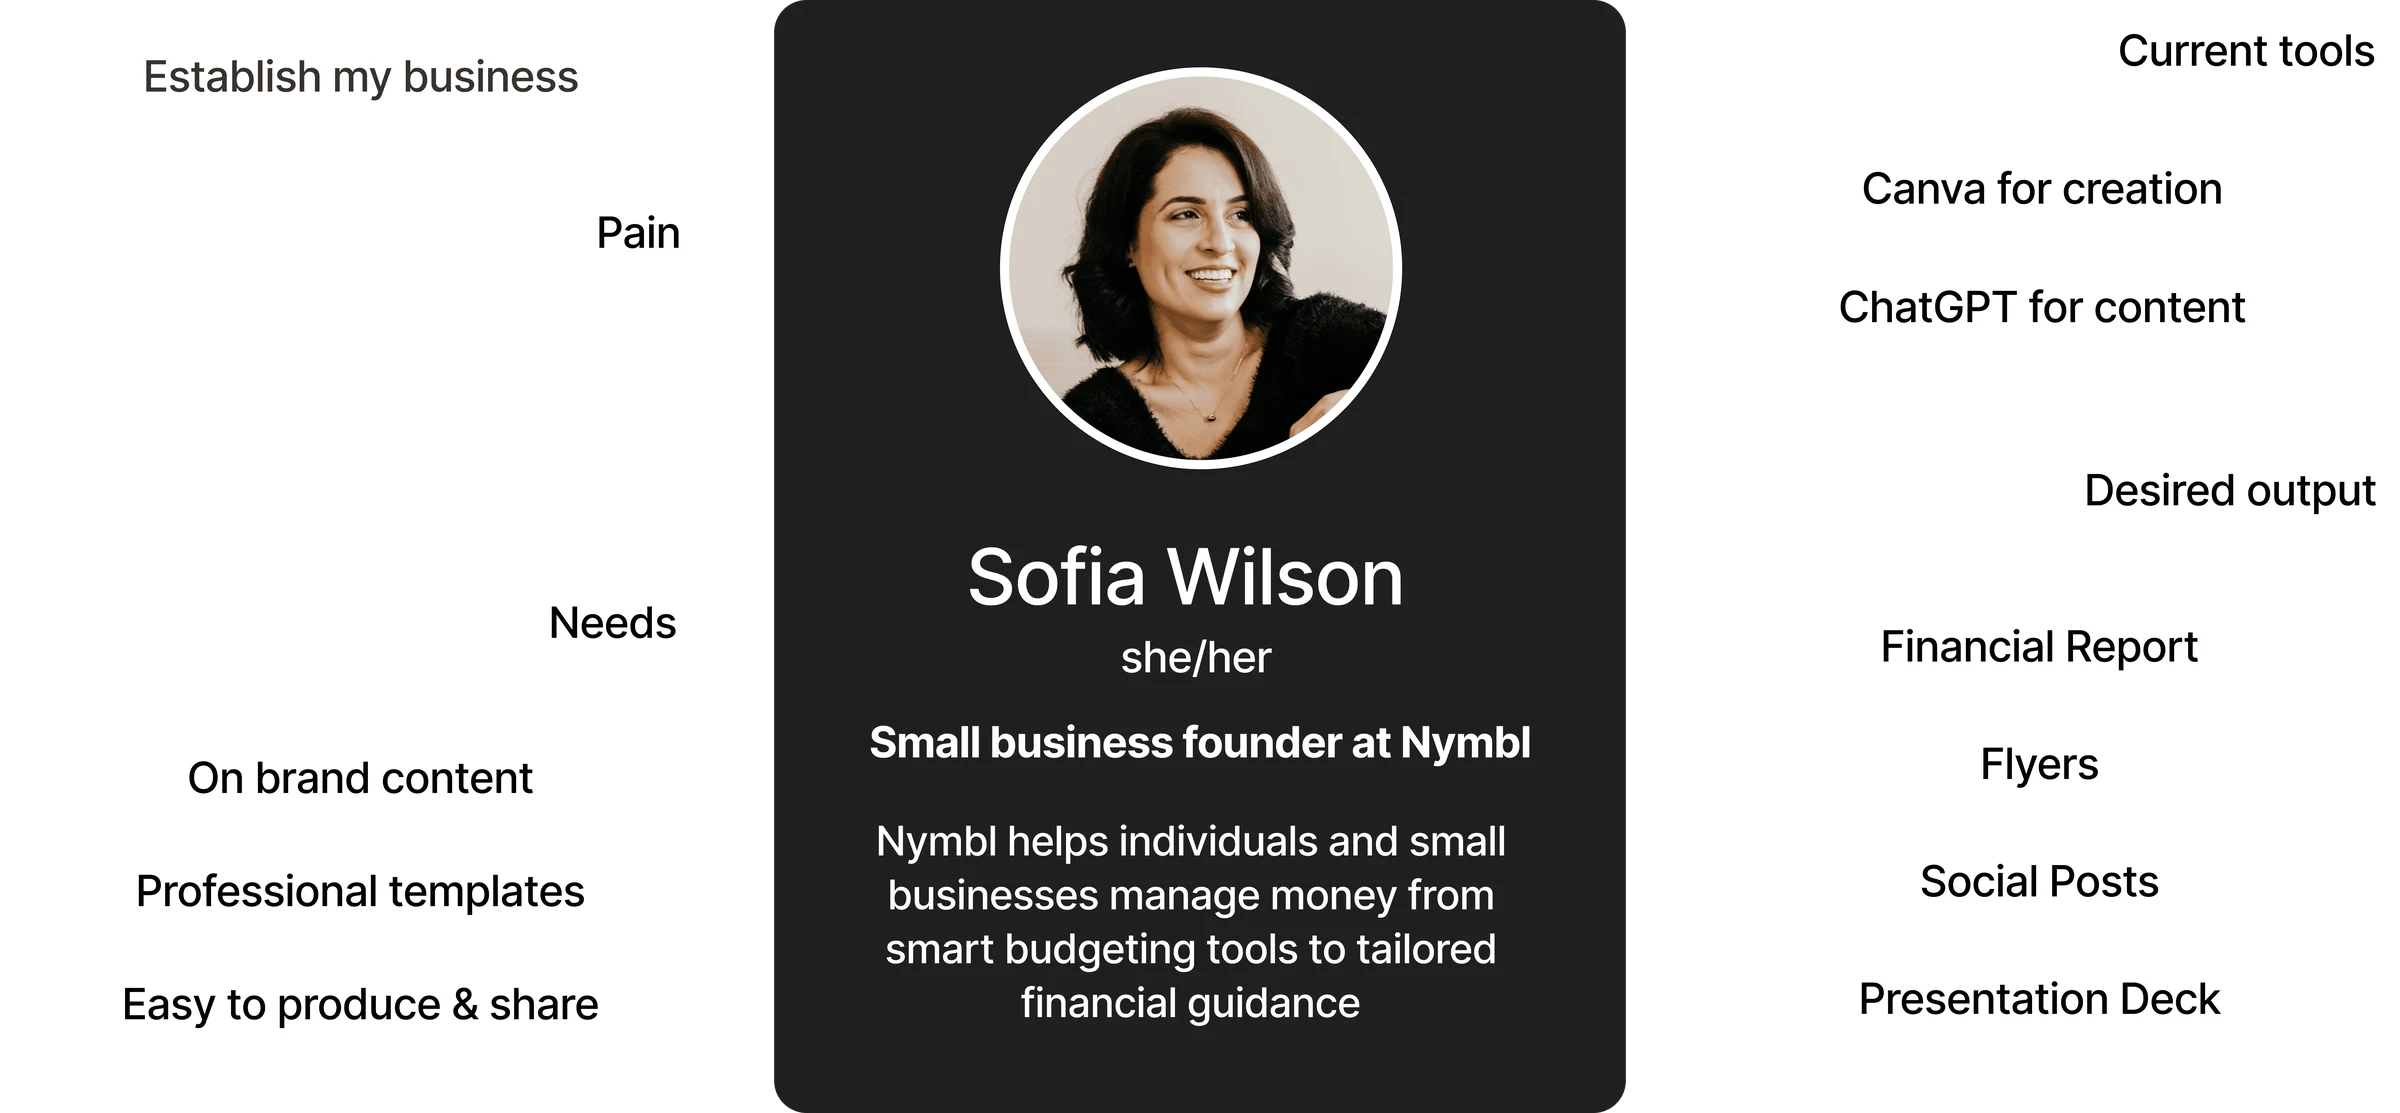
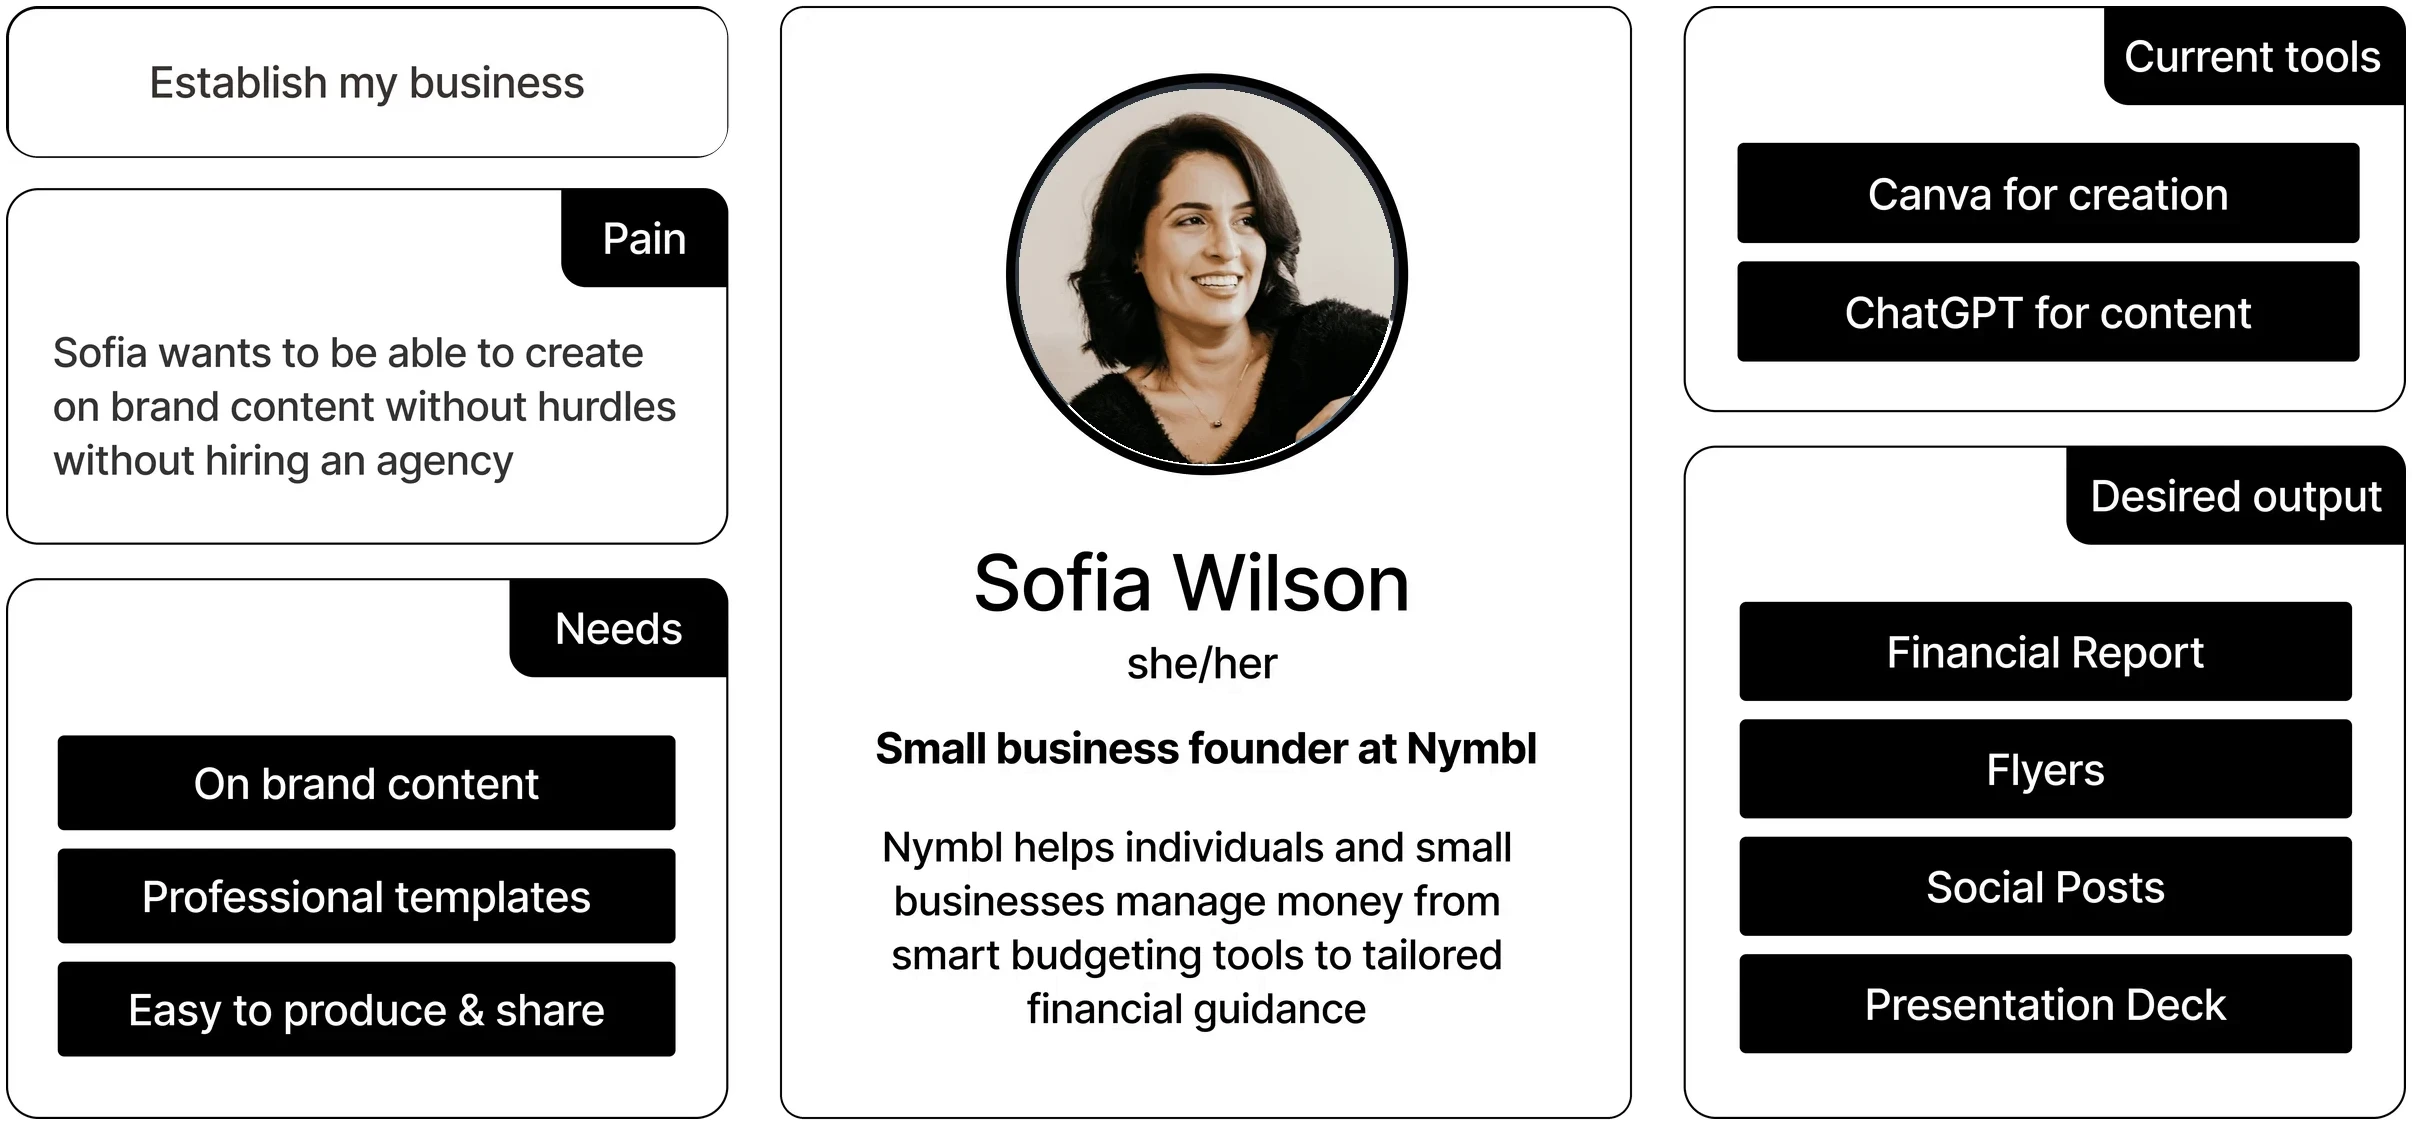
Refine Smart Layouts case study and inset media containers

diff --git a/smart-layouts.html b/smart-layouts.html
@@ -10,7 +10,7 @@
   <link rel="preconnect" href="https://fonts.gstatic.com" crossorigin>
   <link href="https://fonts.googleapis.com/css2?family=Cedarville+Cursive&family=Instrument+Sans:wdth,wght@75..100,400..700&family=Instrument+Serif:ital@0;1&display=swap" rel="stylesheet">
   <link rel="stylesheet" href="case.css?v=47">
-  <link rel="stylesheet" href="study.css?v=9">
+  <link rel="stylesheet" href="study.css?v=15">
 </head>
 <body class="case study">
   <a class="skip" href="#overview">Skip to content</a>
@@ -37,8 +37,8 @@
 
     <section class="sec overview" id="overview">
       <div data-reveal>
-        <h3 class="h4">The use case</h3>
-        <p>Based on our findings, we focused on business professional Acrobat users, honing in on small business owners.</p>
+        <h3 class="h4">Overview</h3>
+        <p>Most people open Acrobat to read and review, not to create. Smart Layouts brings Adobe Express’s proven layouts into Acrobat so small business owners can turn their existing content into on-brand, production-ready designs without starting from a blank page.</p>
       </div>
       <div data-reveal>
         <h3 class="h4">My role</h3>
@@ -49,7 +49,7 @@
       <div data-reveal>
         <div class="person person--teal"><span class="av"><img src="assets/p1/av-011d2.png" alt=""><img src="assets/p1/av-b8d90.png" alt="Amal Shaheedi"></span><span><b>Amal Shaheedi</b><small>Product Design</small></span></div>
         <div class="person person--blue"><span class="av"><img src="assets/p1/av-011d2.png" alt=""><img src="assets/p1/av-57964.png" alt="James Ihezue"></span><span><b>James Ihezue</b><small>Content Strategist</small></span></div>
-        <div class="person person--teal person--solo"><span class="av av--ini" aria-hidden="true">AS</span><span><b>Alex Slater</b></span></div>
+        <div class="person person--teal"><span class="av av--ini" aria-hidden="true">AS</span><span><b>Alex Slater</b><small>Design Director</small></span></div>
       </div>
     </section>
 
@@ -58,15 +58,16 @@
         <p class="script">The use case</p>
         <h2 class="h3">Meet the small business owner</h2>
       </header>
-      <figure class="frame frame--dark frame--pad" data-reveal><img src="assets/p3/persona.webp" alt="Persona: Sofia Wilson, small business founder at Nymbl. Pain: wants on-brand content without hurdles or an agency. Needs: on-brand content, professional templates, easy to produce and share. Current tools: Canva and ChatGPT. Desired output: financial reports, flyers, social posts, presentation decks" width="2400" height="1113" loading="lazy"></figure>
+      <p class="body" data-reveal style="max-width:none">Based on our findings, we focused on business professional Acrobat users, honing in on small business owners.</p>
+      <figure class="frame frame--pad" data-reveal><img src="assets/p3/persona.webp?v=4" alt="Persona: Sofia Wilson, small business founder at Nymbl. Pain: wants on-brand content without hurdles or an agency. Needs: on-brand content, professional templates, easy to produce and share. Current tools: Canva and ChatGPT. Desired output: financial reports, flyers, social posts, presentation decks" width="2412" height="1125" loading="lazy"></figure>
     </section>
 
     <section class="sec stack" id="opportunity">
       <header class="shead" data-reveal>
         <p class="script">Opportunity</p>
-        <h2 class="h3">Turning passive Acrobat users into active creators</h2>
+        <h2 class="h3">Turning passive users into active creators</h2>
       </header>
-      <img class="venn" src="assets/p3/venn.svg" alt="Venn diagram: Consumption overlapping with Creation" width="864" height="411" data-reveal>
+      <img class="venn" src="assets/p3/venn.svg" alt="Venn diagram: Consumption overlapping with Creation" width="864" height="411" data-reveal style="width:min(580px,100%)">
     </section>
 
     <section class="sec stack" id="problem">
@@ -79,14 +80,14 @@
         <article><span class="num">2</span><h4>No clear starting point</h4><p>Not knowing what fits their task means wasted effort and second-guessing</p></article>
         <article><span class="num">3</span><h4>Lack of brand relevance</h4><p>Free-form generation drifts off-brand, and generic templates carry none of the user’s brand</p></article>
       </div>
-      <div class="statement" data-reveal>
+      <div class="statement statement--bare" data-reveal>
         <h3 class="h4">Problem statement</h3>
         <p>How might we create content that is easy to produce and highly relevant to our users?</p>
       </div>
     </section>
 
     <section class="sec" id="solution">
-      <div class="split">
+      <div class="split split--top">
         <div class="stack" data-reveal>
           <header class="shead">
             <p class="script">Solution</p>
@@ -100,10 +101,10 @@
 
     <section class="sec stack">
       <header class="shead" data-reveal>
-        <p class="script">What’s already working</p>
+        <p class="script" style="margin-bottom:10px">What’s already working</p>
         <h2 class="h3 h3--sm">In Express, wireframe templates export at nearly double the rate of the originals</h2>
       </header>
-      <p class="body" data-reveal>Across Express research, business communicators consistently want skeletal, professional layouts they can adapt, not bright, finished designs that are off-brand.</p>
+      <p class="body" data-reveal style="max-width:none">Across Express research, business communicators consistently want skeletal, professional layouts they can adapt, not bright, finished designs that are off-brand.</p>
       <div class="cards" style="--n:2" data-reveal>
         <article><h4>Skeletal &amp; simple</h4><p>They expect skeletal layouts, and describe the ones they’d actually use for work as simple, clean, easy and adaptable</p></article>
         <article><h4>Clear sections to adapt</h4><p>Distinct boxes and defined sections signal how a layout can be reused across different scenarios and use cases</p></article>
@@ -115,7 +116,7 @@
         <p class="script">Research</p>
         <h2 class="h3">Mapping out the journey</h2>
       </header>
-      <p class="body" data-reveal>We mapped out several possible user journeys and identified which ones made the most sense to move forward with.</p>
+      <p class="body" data-reveal style="max-width:none">We mapped out several possible user journeys and identified which ones made the most sense to move forward with.</p>
       <figure class="frame frame--grey" data-reveal><img src="assets/p3/journeys.png" alt="Four candidate user journeys, A, A.2, A.3 and B, mapped as flows of screens" width="1644" height="996" loading="lazy"></figure>
     </section>
 
@@ -125,10 +126,10 @@
         <h2 class="h3">Smart Layouts in Acrobat</h2>
       </header>
       <div data-reveal>
-        <p class="body">A clickable prototype that brings the efficiency of Smart Layouts to life for small business users. It shows how teams can move from an existing file or a wireframe (layout) state to on-brand, production-ready content.</p>
+        <p class="body" style="max-width:none">A clickable prototype that brings the efficiency of Smart Layouts to life for small business users. It shows how teams can move from an existing file or a wireframe (layout) state to on-brand, production-ready content.</p>
         <p class="note" style="margin-top:10px">Designed in Figma, engineered in Cursor/Claude</p>
       </div>
-      <figure class="frame frame--dark" data-reveal><video src="assets/p3/prototype.mp4" width="1440" height="918" autoplay muted loop playsinline preload="metadata" aria-label="Prototype walkthrough: picking a Smart Layout in Acrobat and turning it into on-brand content"></video></figure>
+      <figure class="frame frame--inset" data-reveal><video src="assets/p3/prototype.mp4" width="1440" height="918" autoplay muted loop playsinline preload="metadata" aria-label="Prototype walkthrough: picking a Smart Layout in Acrobat and turning it into on-brand content"></video></figure>
     </section>
   </div>
 

diff --git a/study.css b/study.css
@@ -114,8 +114,9 @@
   .pn { flex-direction: column; }
   .pn a { min-width: 0; }
 }
-.frame--inset { padding: clamp(18px, 3vw, 44px); }
-.frame--inset video, .frame--inset img { width: min(100%, 780px); margin: 0 auto; border-radius: 9px; box-shadow: 0 0 0 1px rgba(0,0,0,.06); }
+.frame--inset { padding: clamp(14px, 2vw, 28px); container-type: inline-size; }
+.frame--inset video, .frame--inset img { width: min(100%, 960px); margin: max(0px, (100cqi - 960px) / 2) auto; border-radius: 9px; box-shadow: 0 0 0 1px rgba(0,0,0,.06); }
 .stack--loose { gap: clamp(48px, 5.5vw, 80px); }
 .stack--loose > .shead { margin-bottom: calc(32px - clamp(48px, 5.5vw, 80px)); }
 .stack--loose .annot .notes li + li { margin-top: 10px; }
+.statement--bare, .study .statement--bare { padding: 0; background: none; border-radius: 0; margin-top: 16px; }

diff --git a/pvh.html b/pvh.html
@@ -10,7 +10,7 @@
   <link rel="preconnect" href="https://fonts.gstatic.com" crossorigin>
   <link href="https://fonts.googleapis.com/css2?family=Cedarville+Cursive&family=Instrument+Sans:wdth,wght@75..100,400..700&family=Instrument+Serif:ital@0;1&display=swap" rel="stylesheet">
   <link rel="stylesheet" href="case.css?v=47">
-  <link rel="stylesheet" href="study.css?v=9">
+  <link rel="stylesheet" href="study.css?v=15">
 </head>
 <body class="case study">
   <a class="skip" href="#overview">Skip to content</a>

diff --git a/salesforce.html b/salesforce.html
@@ -9,7 +9,7 @@
   <link rel="preconnect" href="https://fonts.gstatic.com" crossorigin>
   <link href="https://fonts.googleapis.com/css2?family=Cedarville+Cursive&family=Instrument+Sans:wdth,wght@75..100,400..700&family=Instrument+Serif:ital@0;1&display=swap" rel="stylesheet">
   <link rel="stylesheet" href="case.css?v=47">
-  <link rel="stylesheet" href="study.css?v=12">
+  <link rel="stylesheet" href="study.css?v=15">
 </head>
 <body class="case study">
   <a class="skip" href="#overview">Skip to content</a>
